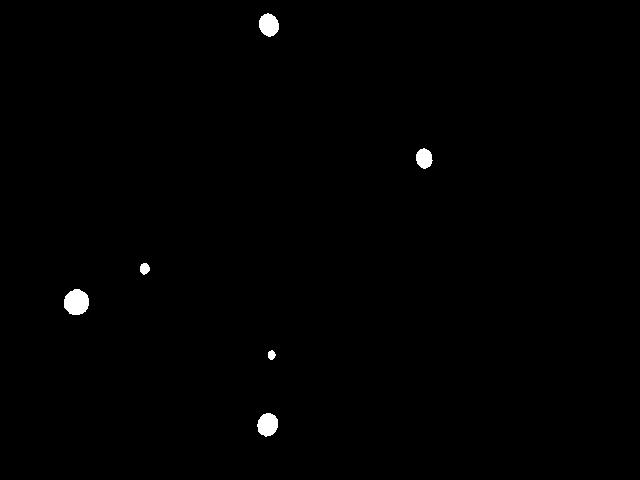
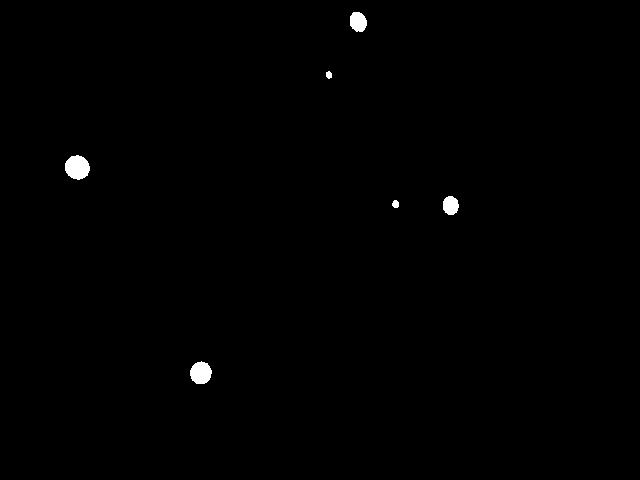
missing files added

diff --git a/scripts/pic_stuff.m b/scripts/pic_stuff.m
@@ -1,42 +1,40 @@
-diff_pic = removeBackground( 'maze.jpg', 'nomaze.jpg');
+function [] = pic_stuff(nomaze, maze, obstacles)
 
-imwrite(diff_pic, 'diff.jpg','jpg');
+    diff_pic = removeBackground(maze, nomaze);
 
-[height, width] = size(diff_pic);
+    imwrite(diff_pic, 'diff.jpg','jpg');
 
-% find compact areas
-[labeled, labels_no] = bwlabel(diff_pic * (-1) + 1, 4);
-compactness = findAreasCompactness(labeled, labels_no);
-circles = getCircles(labeled, compactness, 10);
-[corners, notcorners] = takeFourCorners(circles);
+    [height, width] = size(diff_pic);
 
-projected_pic = remap('diff.jpg', 'jpg', corners);
+    % find compact areas
+    [labeled, labels_no] = bwlabel(diff_pic * (-1) + 1, 8);
+    circles = getCircles(labeled, labels_no);
+    [corners, notcorners] = takeFourCorners(circles);
 
+    projected_pic = remap('diff.jpg', 'jpg', corners);
 
+    new_corners = [corners(:,2),corners(:, 1)];
 
-new_corners = [corners(:,2),corners(:, 1)];
+    min = 10000;
+    min_index = -1;
+    for i = 1:4
 
-min = 10000;
-min_index = -1;
-for i = 1:4
-   
-    dist = distance(new_corners(i,:), notcorners(1,:));
-    
-    if dist < min
-        min = dist;
-        min_index = i;
+        dist = distance(new_corners(i,:), notcorners(1,:));
+
+        if dist < min
+            min = dist;
+            min_index = i;
+        end
     end
+
+    %new_conrners(min_index, 1)
+
+    robot_point = findBigSpots(obstacles, maze, corners, 1)
+
+    osb1 = findBigSpots(obstacles, maze, corners, 2)
+    obs2 = findBigSpots(obstacles, maze, corners, 3)
+    imshow(obstacles);
+
 end
-
-%new_conrners(min_index, 1)
-
-robot_point = findBigSpots('mazewR.jpg', 'maze.jpg', corners, 1)
-
-osb1 = findBigSpots('mazewR.jpg', 'maze.jpg', corners, 2)
-obs2 = findBigSpots('mazewR.jpg', 'maze.jpg', corners, 3)
-%imshow(projwobs_pic);
-
-
-    
 
 

diff --git a/scripts/getcompactness.m b/scripts/getcompactness.m
@@ -1,8 +1,7 @@
-function compactness = getcompactness(Image)
+function compactness = getcompactness(regionprop)
 
-     [H,W] = size(Image);
-     area = bwarea(Image);
-     perim = bwarea(bwperim(Image,4));
+     area = regionprop.Area;
+     perim = regionprop.Perimeter;
      
      % compactness
      compactness = perim*perim/(4*pi*area);
